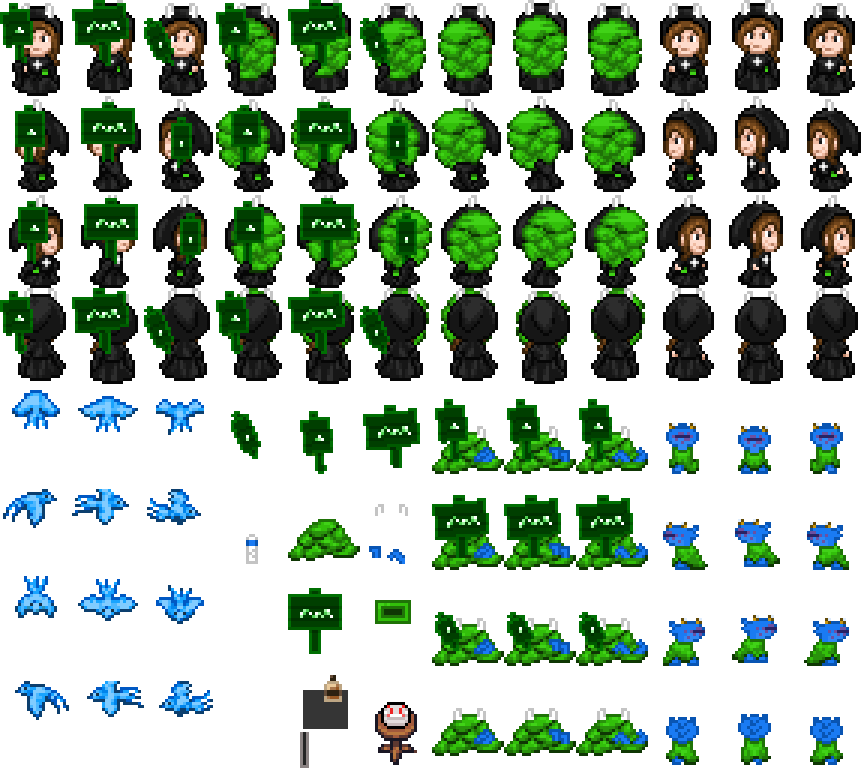
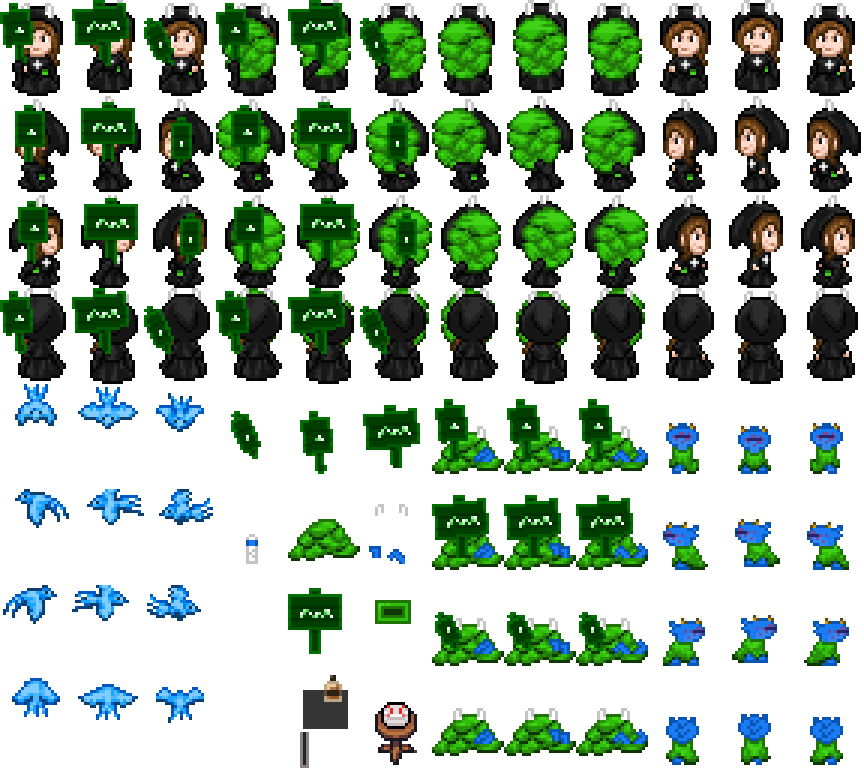
kingdom hearts
- added the auto cursor switcher system!
- updated places where the cursor changes
- added a special thanks section to the credits

To-do:
- debug the scorpion battle
- check which journal entry should be available as of alchemy factory
- add the credits

optional:
- finish 🔷 sprites
- if you're lucky, maybe make the current target's bars show up when battle box is active
- package up the journal entries in a zip file

diff --git a/hyacinthheld_MV/hycheld/js/plugins/SRD_AltBattleScene_Undertale.js b/hyacinthheld_MV/hycheld/js/plugins/SRD_AltBattleScene_Undertale.js
@@ -138,7 +138,7 @@ _.cursor = function() {
 	var oy = y - y2;
 	var w2 = Math.min(w, this._width - pad - x2);
 	var h2 = Math.min(h, this._height - pad - y2);
-	var bitmap = _.loadImage("Heart-Cursor");
+	var bitmap = _.loadImage("");
 
 	if(_.animate) {
 		if(!this._windowCursorSprite._xAniOff) this._windowCursorSprite._xAniOff = 0;
@@ -181,6 +181,9 @@ _.loadImage = function(filename, hue) {
 _.preloadImages = function() {
 	for(var i = 1; i <= 4; i++) {
 		_.loadImage("Command" + i);
+}
+		for (const image of ["Heart", "chaoheart", "tealheart","flblueheart"]) {
+  ImageManager.loadSystem(image); // your cursors
 	}
 };
 
@@ -272,6 +275,7 @@ var _Scene_Boot_loadSystemImages = Scene_Boot.loadSystemImages;
 Scene_Boot.loadSystemImages = function() {
 	_Scene_Boot_loadSystemImages.apply(this, arguments);
 	_.preloadImages();
+
 };
 
 //-----------------------------------------------------------------------------
@@ -280,15 +284,16 @@ Scene_Boot.loadSystemImages = function() {
 
 Scene_Battle.prototype.commandAct = function() {
 	BattleManager.inputtingAction().setAct();
+	// you are picking the ACT option
 	this.selectEnemySelection();
 };
 
-Scene_Battle.prototype.startPartyCommandSelection = function() {
+Scene_Battle.prototype.startPartyCommandSelection = function() { // once per round
 	this.selectNextCommand();
 };
 
 var _Scene_Battle_createActorCommandWindow = Scene_Battle.prototype.createActorCommandWindow;
-Scene_Battle.prototype.createActorCommandWindow = function() {
+Scene_Battle.prototype.createActorCommandWindow = function() { // once per battle intro
 	_Scene_Battle_createActorCommandWindow.apply(this, arguments);
 	this._actorCommandWindow.setHandler('act', this.commandAct.bind(this));
 };
@@ -363,6 +368,7 @@ var _Scene_Battle_stop = Scene_Battle.prototype.stop;
 Scene_Battle.prototype.stop = function() {
 	_Scene_Battle_stop.apply(this, arguments);
 	this._messageBox.close();
+	Galv.CI.image = $dataActors[$gameParty.members()[0]._actorId].meta["UTB Sprite"].trim(); // EDIT
 };
 
 var _Scene_Battle_updateStatusWindow = Scene_Battle.prototype.updateStatusWindow;
@@ -382,6 +388,22 @@ Scene_Battle.prototype.endCommandSelection = function() {
 
 var _Scene_Battle_startActorCommandSelection = Scene_Battle.prototype.startActorCommandSelection;
 Scene_Battle.prototype.startActorCommandSelection = function() {
+	
+						if (BattleManager.actor() !== null){
+	console.log(BattleManager.actor()._actorId);
+	console.log($dataActors[BattleManager.actor()._actorId].meta["UTB Sprite"].trim());
+	console.log("aaaaaa");
+	Galv.CI.image = $dataActors[BattleManager.actor()._actorId].meta["UTB Sprite"].trim(); // edit: it works!!!
+	}
+	else{
+		console.log("bbbb");
+	}
+	console.log(Galv.CI.image);
+	//Sprite_GalvCursor.createImage;
+	
+	
+	
+	
 	$gameMessageBattle.setCurrentBattleText();
 	this._messageBox.startMessage();
 	this._messageBox.pause = false;
@@ -514,7 +536,9 @@ Window_BattleStatus.prototype.drawItem = function(index) {
 	var rect = this.basicAreaRect(index);
 	var rect2 = this.gaugeAreaRect(index);
 	var levelOffset = 100;
-	//this.drawText(actor.equips, rect.x , rect.y, rect.width + 56); // save for FUN later
+	//this.drawText(actor.equips, rect.x , rect.y, rect.width + 56); // scary
+	//Galv.CI.image = "chaoheart" //this does work
+
 	if (actor.equips()[2] !== null) {
 	var iconn = actor.equips()[2].iconIndex; //bullshit here
 	}
@@ -522,9 +546,8 @@ Window_BattleStatus.prototype.drawItem = function(index) {
 	var iconn = 81;
 	}
 	this.drawIcon(iconn, rect.x, rect.y-2);
-	console.log(iconn);
-	
-	//Window_EquipSlot.drawItemName(actor.equips()[2], rect.x + 138, rect.y); //doesn't work
+	//console.log(iconn);
+
 	this.drawActorName( actor, rect.x + 15, rect.y, levelOffset); 
 	this.drawText("LV " + actor.level, rect.x + levelOffset + 40, rect.y, rect.width - 156);
 	this.drawActorHp(actor, rect.x + levelOffset*2 + 6, rect2.y+2, 90); //position 90
@@ -545,7 +568,7 @@ Window_BattleStatus.prototype.hpGaugeColor2 = function() {
 
 Window_BattleStatus.prototype.setFocusUTBActor = function(actor) {
 	this._focusUTBActor = actor;
-	this._focusUTBActorHp = actor.hp;
+	this._focusUTBActorHp = actor.hp;	
 };
 
 Window_BattleStatus.prototype.updateFocusUTBActor = function() {
@@ -875,12 +898,12 @@ Window_PartyCommand.prototype.itemTextAlign = function() {
 	return 'center';
 };
 
-Window_PartyCommand.prototype.drawItem = function(index) {
+Window_PartyCommand.prototype.drawItem = function(index) { //only twice at the beginning
 	var rect = this.itemRectForText(index);
 	var align = this.itemTextAlign();
 	this.resetTextColor();
 	this.changePaintOpacity(this.isCommandEnabled(index));
-	this.drawText(this.commandName(index), rect.x + _.cursorOffset, rect.y, rect.width, 'left');
+	this.drawText(this.commandName(index), rect.x + _.cursorOffset, rect.y, rect.width, 'left');	
 };
 
 //-----------------------------------------------------------------------------
@@ -974,7 +997,9 @@ Window_InGame_Message.prototype.terminateMessage = function() {
 	this._goldWindow.close();
 	$gameMessageBattle.clear();
 };
-Window_InGame_Message.prototype.startInput = function() {
+Window_InGame_Message.prototype.startInput = function() { // when you can start moving things
+	
+	
 	if ($gameMessageBattle.isChoice()) {
 		this._choiceWindow.start();
 		return true;

diff --git a/hyacinthheld_MV/hycheld/js/plugins/GALV_CursorImage.js b/hyacinthheld_MV/hycheld/js/plugins/GALV_CursorImage.js
@@ -112,6 +112,9 @@ Galv.CI.Scene_Boot_loadSystemImages = Scene_Boot.loadSystemImages;
 Scene_Boot.loadSystemImages = function() {
 	Galv.CI.Scene_Boot_loadSystemImages.call(this);
     ImageManager.loadSystem(Galv.CI.image);
+			for (const image of ["Heart", "chaoheart", "tealheart","flblueheart"]) {
+  ImageManager.loadSystem(image); // your cursors
+	}
 };
 
 
@@ -201,7 +204,7 @@ Sprite_GalvCursor.prototype.initialize = function(window) {
 	this._pattern = 0;
 	this.updateFrame();
 };
-
+/*
 Sprite_GalvCursor.prototype.createImage = function() {
 	this.bitmap = ImageManager.loadSystem(Galv.CI.image);
 	this._frameWidth = this.bitmap.width / Galv.CI.frames;
@@ -221,6 +224,34 @@ Sprite_GalvCursor.prototype.update = function() {
 	} else {
 		this.opacity = 0;
 	};
+};
+*/
+
+Sprite_GalvCursor.prototype.createImage = function() {
+    this._imageName = Galv.CI.image; // ADDED
+    this.bitmap = ImageManager.loadSystem(Galv.CI.image);
+    this._frameWidth = this.bitmap.width / Galv.CI.frames;
+    this._frameHeight = this.bitmap.height;
+    this._maxPattern = Galv.CI.frames - 1;
+    this._tickSpeed = Galv.CI.animSpeed;
+    this.anchor.y = 0.5;
+    this.opacity = 0;
+};
+
+Sprite_GalvCursor.prototype.update = function() {
+    Sprite_Base.prototype.update.call(this);
+    // START ADDED
+    if (this._imageName !== Galv.CI.image) {
+        this.createImage();
+    }
+    // END ADDED
+    if (this._window.isCursorVisible() && !$gameSystem._cursorHidden) {
+        this.opacity = this._window.openness >= 255 ? 255 : 0;
+        if (this._window.active) this.updateFrame();
+        this.updatePosition();
+    } else {
+        this.opacity = 0;
+    };
 };
 
 Sprite_GalvCursor.prototype.updateFrame = function() {